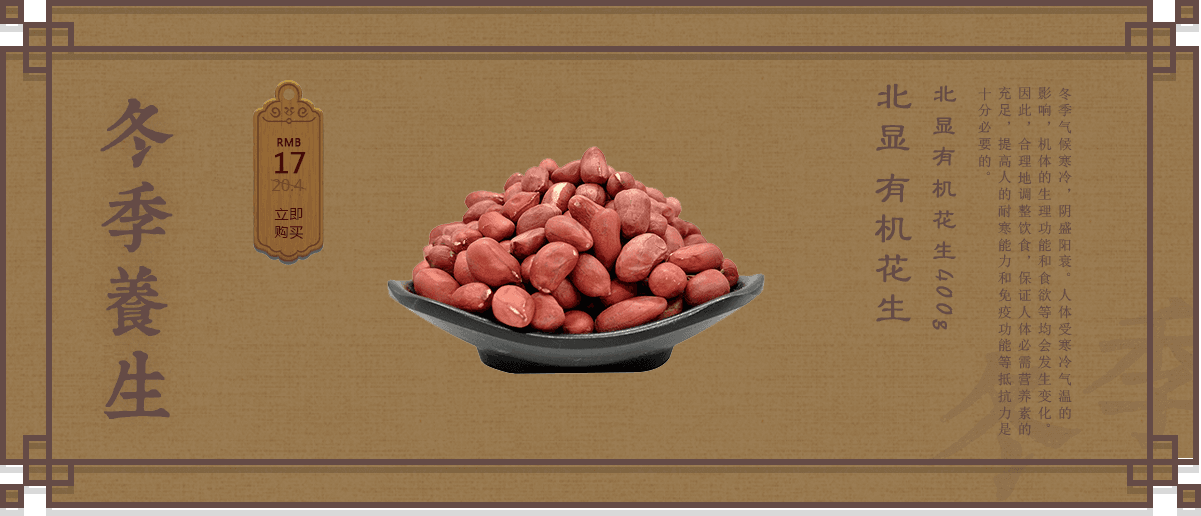
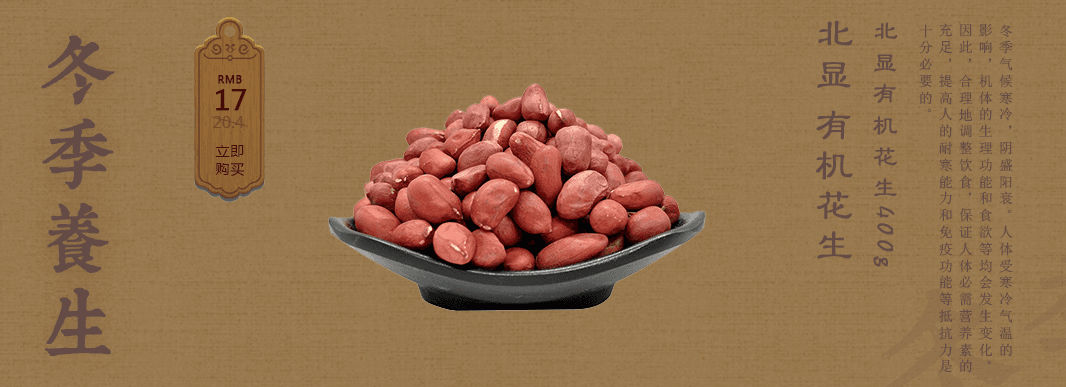
更新首页轮播图

Changed region(s): [[0.0, 0.0, 1.0, 1.0], [0.3096, 0.2171, 0.6811, 0.8062]]

diff --git a/gzyz/WebRoot/JSP/RP/css/skdslider.css b/gzyz/WebRoot/JSP/RP/css/skdslider.css
@@ -3,7 +3,7 @@
 	 position: relative;
 	 display: block;
 	 overflow:hidden;
-	 height: 800px;
+	 height: 600px;
 }
 
 .skdslider:after {
